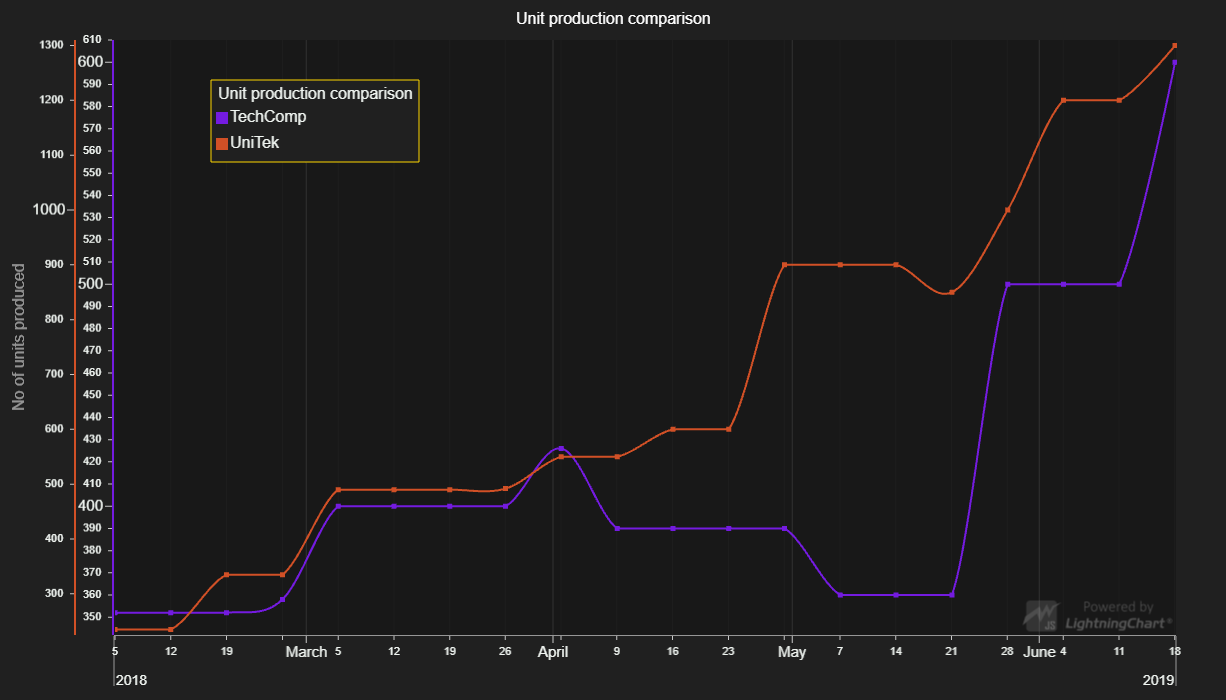
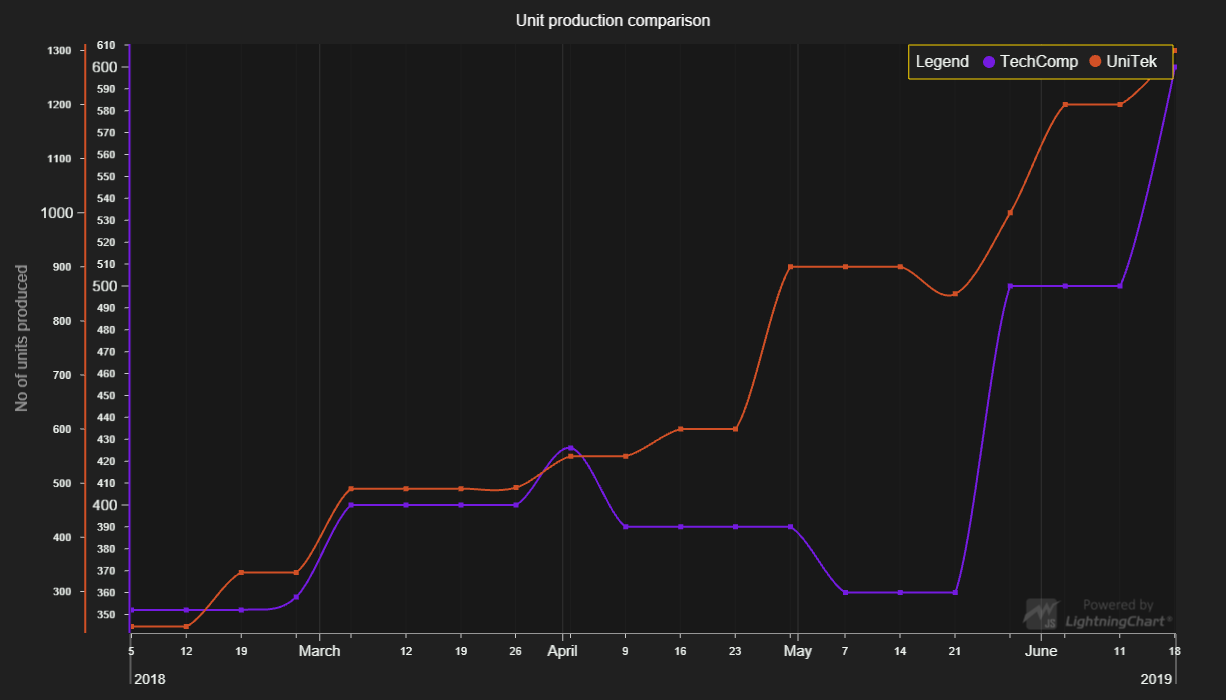
LCJS 3.0.0

diff --git a/src/index.js b/src/index.js
@@ -180,9 +180,6 @@ chart.setAutoCursor(cursor => {
         .setTickMarkerYAutoTextStyle(true)
 })
 const legend = chart.addLegendBox(LegendBoxBuilders.HorizontalLegendBox)
-    .setPosition({ x: 35, y: 90 })
-    .setOrigin(UIOrigins.RightTop)
-    .setMargin(10)
 // Add Chart to LegendBox
 legend.add(chart)
 
@@ -192,5 +189,5 @@ const parser = (builder, series, Xvalue, Yvalue) => {
         .addRow(axisX.formatValue(Xvalue))
         .addRow('Units: ' + Math.floor(Yvalue))
 }
-splineSeries1.setResultTableFormatter(parser)
-splineSeries2.setResultTableFormatter(parser)
+splineSeries1.setCursorResultTableFormatter(parser)
+splineSeries2.setCursorResultTableFormatter(parser)

diff --git a/README.md b/README.md
@@ -138,12 +138,12 @@ Direct developer email support can be purchased through a [Support Plan][4] or b
 © Arction Ltd 2009-2020. All rights reserved.
 
 
-[XY cartesian chart]: https://www.arction.com/lightningchart-js-api-documentation/v2.2.0/classes/chartxy.html
-[Axis]: https://www.arction.com/lightningchart-js-api-documentation/v2.2.0/classes/axis.html
-[Spline series]: https://www.arction.com/lightningchart-js-api-documentation/v2.2.0/classes/splineseries.html
-[Color palettes]: https://www.arction.com/lightningchart-js-api-documentation/v2.2.0/globals.html#colorpalettes
-[RGBA color factory]: https://www.arction.com/lightningchart-js-api-documentation/v2.2.0/globals.html#colorrgba
-[Solid FillStyle]: https://www.arction.com/lightningchart-js-api-documentation/v2.2.0/classes/solidfill.html
-[Solid LineStyle]: https://www.arction.com/lightningchart-js-api-documentation/v2.2.0/classes/solidline.html
-[Auto cursor XY]: https://www.arction.com/lightningchart-js-api-documentation/v2.2.0/interfaces/autocursorxy.html
+[XY cartesian chart]: https://www.arction.com/lightningchart-js-api-documentation/v3.0.0/classes/chartxy.html
+[Axis]: https://www.arction.com/lightningchart-js-api-documentation/v3.0.0/classes/axis.html
+[Spline series]: https://www.arction.com/lightningchart-js-api-documentation/v3.0.0/classes/splineseries.html
+[Color palettes]: https://www.arction.com/lightningchart-js-api-documentation/v3.0.0/globals.html#colorpalettes
+[RGBA color factory]: https://www.arction.com/lightningchart-js-api-documentation/v3.0.0/globals.html#colorrgba
+[Solid FillStyle]: https://www.arction.com/lightningchart-js-api-documentation/v3.0.0/classes/solidfill.html
+[Solid LineStyle]: https://www.arction.com/lightningchart-js-api-documentation/v3.0.0/classes/solidline.html
+[Auto cursor XY]: https://www.arction.com/lightningchart-js-api-documentation/v3.0.0/interfaces/autocursorxy.html
 
